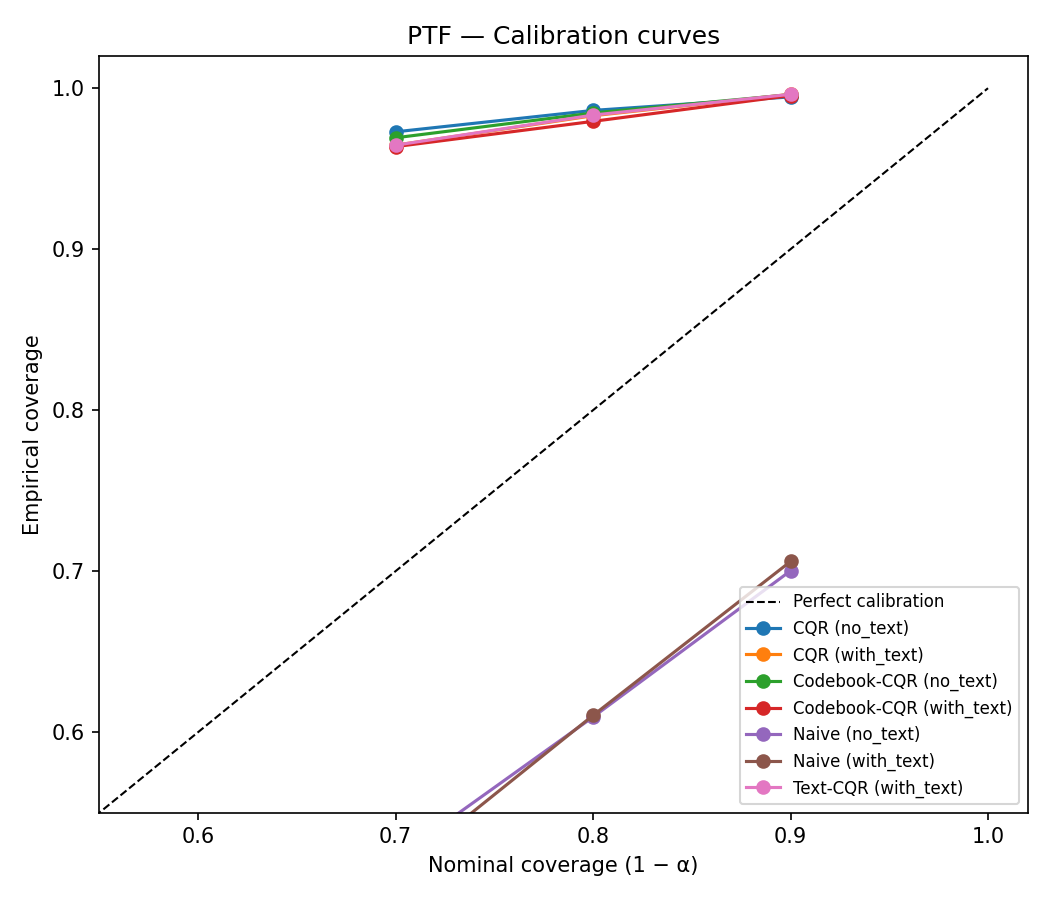
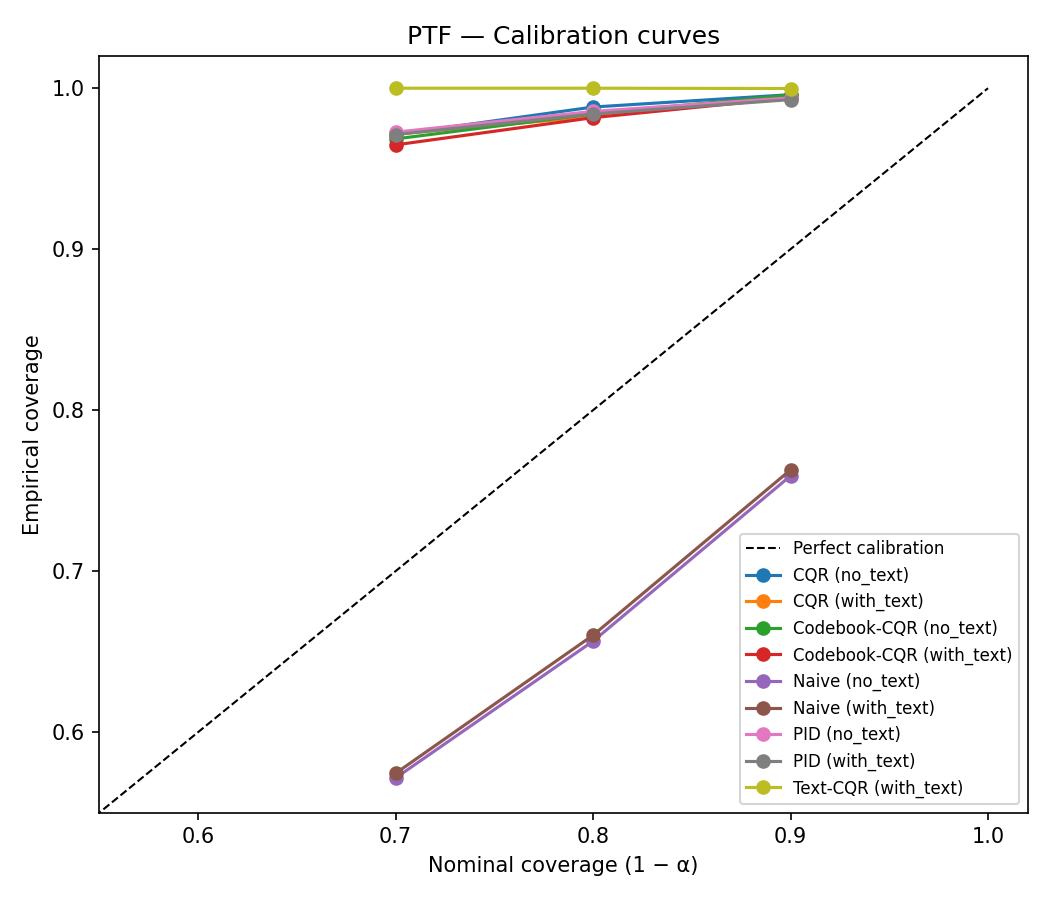
chattime results

diff --git a/chattime_method_text_cqr.py b/chattime_method_text_cqr.py
@@ -41,7 +41,7 @@ from chattime_method_cqr import cqr_scores, cqr_quantile, apply_correction
 # ---------------------------------------------------------------------------
 
 SBERT_MODEL = "sentence-transformers/all-MiniLM-L6-v2"   # 22M params, fast
-TEMPERATURE = 5.0   # softmax-style temperature on cosine similarity
+TEMPERATURE = 1.0   # softmax-style temperature on cosine similarity
 
 
 # ---------------------------------------------------------------------------
